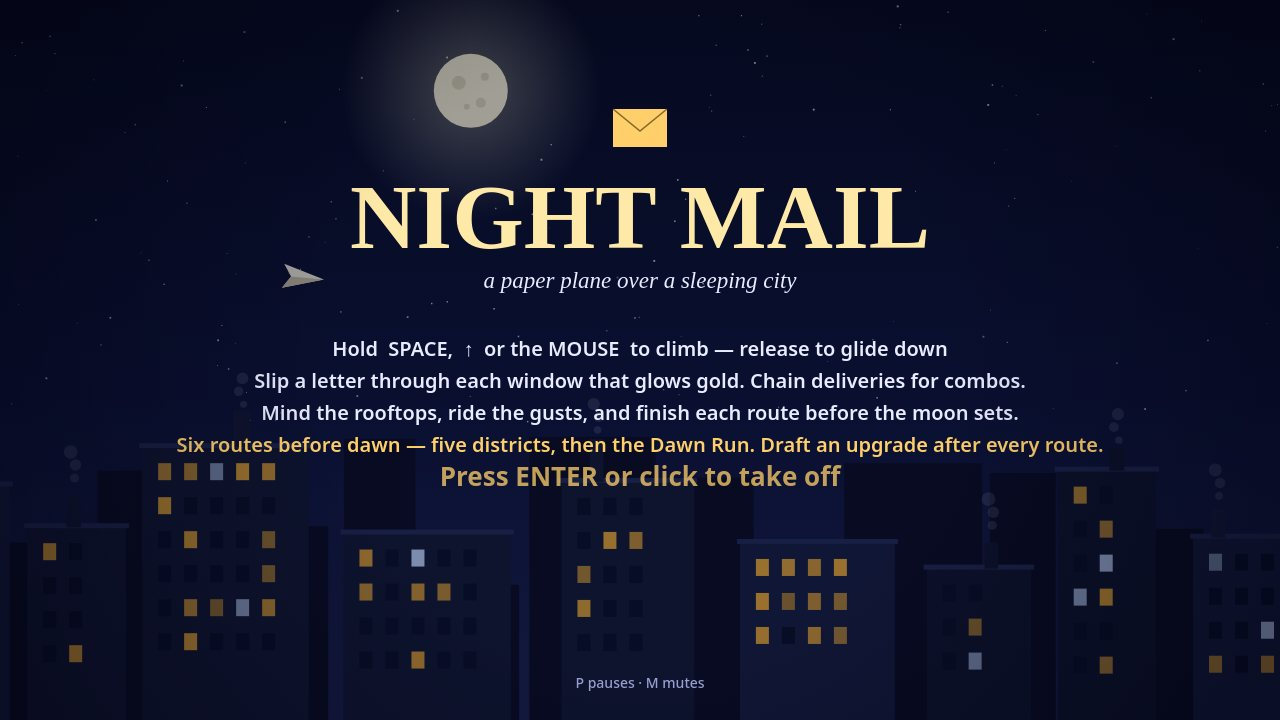
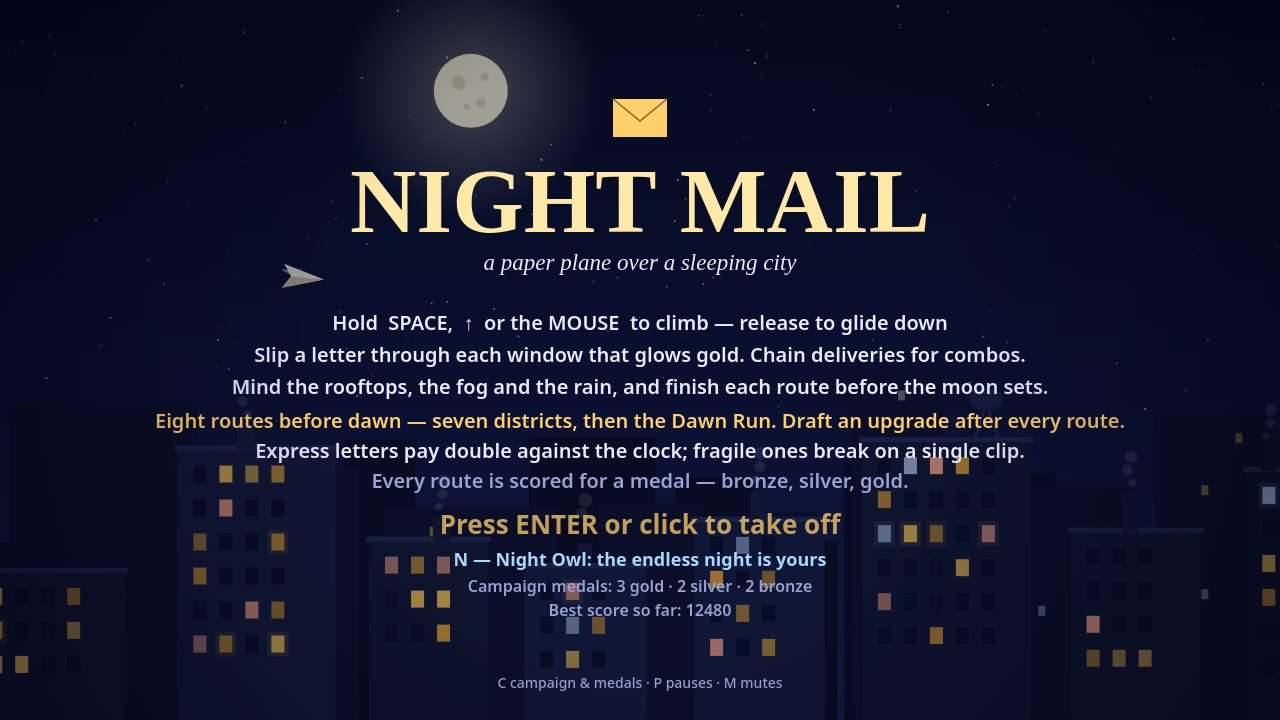
Night Mail v3 rev 2: screenshot scenes for the new systems, README refresh
- shots.js: stagedRecord/stageCampaign/stageStorm scenes — the title of a
  returning pilot (medals held, Owl open), the campaign map with its medals,
  an express dash inside a Storm Quarter rain band, and a won campaign whose
  Dawn Run medal is earned by the autopilot's real final delivery.
- screenshots: 1-title, 2-campaign, 3-storm, 4-results (1280x720 JPEGs,
  62-109 KB), replacing the v2 set.
- README: the eight-route campaign, weather, specials, medals and Night Owl.
- Gate audit: main.ts twice, byte-identical; 5/5 rows pass; dossier 545,725 B.

diff --git a/game/js/shots.js b/game/js/shots.js
@@ -1,9 +1,11 @@
-// The screenshot scenes behind ?shot=title|draft|play|over (with &seed=N). Each scene builds
-// a real world from the seed and plays it forward with the autopilot below — steer at the
-// target window, stay clear of the rooftops — so the frame is what an actual game looks
-// like, and the same seed always produces the same frame. Nothing here draws anything
-// itself. The scenes stage the campaign arc: the title, the upgrade draft after the first
-// route, a mid-combo delivery deep in the Mill District, and the results of a won campaign.
+// The screenshot scenes behind ?shot=title|campaign|storm|over (with &seed=N; draft and
+// play remain as alternates). Each scene builds a real world from the seed and plays it
+// forward with the autopilot below — steer at the target window, stay clear of the
+// rooftops — so the frame is what an actual game looks like, and the same seed always
+// produces the same frame. Nothing here draws anything itself. The scenes stage the
+// campaign arc: the title of a returning pilot (medals held, the Owl unlocked), the
+// campaign map with its medals, an express dash inside a Storm Quarter rain band, and
+// the results of a won campaign with its medal strip.
 
 import {
   BASE_SPEED, DELIVERY_REACH, DIVE, GRAVITY, LIFT, MAX_FALL, MAX_RISE, PLANE_X, STEP,
@@ -11,6 +13,7 @@ import {
 import { ROUTES } from './campaign.js';
 import { createRandom } from './random.js';
 import { createWorld, EV_DELIVER, EV_OVER } from './world.js';
+import { createCampaignRecord, medalForRoute, recordRouteResult } from './medals.js';
 
 /** The flight forces of one step, mirroring world.js exactly (upgrades included), so the
  *  autopilot's replay below predicts the real flight and not last version's. */
@@ -165,10 +168,36 @@ function playForward(world, controlFor, stopWhen, maxSeconds) {
   return false;
 }
 
+/**
+ * A returning pilot's record, built through medals.js's own folding so every medal on
+ * it is one its score truly earns: seven routes held, one campaign won, the Owl open.
+ */
+function stagedRecord() {
+  const record = createCampaignRecord(ROUTES.length);
+  const scores = [1250, 2150, 1900, 2900, 3100, 2400, 2900, 0];
+  scores.forEach((score, i) => {
+    if (score > 0) recordRouteResult(record, i, score, ROUTES[i]);
+  });
+  record.wins = 1;
+  record.owlUnlocked = true;
+  return record;
+}
+
 function stageTitle(seed) {
   const world = createWorld(createRandom(seed));
   playForward(world, () => ({ climb: false, dive: false }), null, 4.5);
-  return { world, screen: 'title', best: 0, isNewBest: false };
+  return { world, screen: 'title', best: 12480, isNewBest: false, record: stagedRecord() };
+}
+
+/**
+ * The campaign map: the same returning pilot's standing — medals across the first
+ * five districts, bronzes on the Heights and the Storm Quarter, the Dawn Run still
+ * waiting. The world behind it is the title's ambient drift.
+ */
+function stageCampaign(seed) {
+  const world = createWorld(createRandom(seed));
+  playForward(world, () => ({ climb: false, dive: false }), null, 3.2);
+  return { world, screen: 'campaign', best: 12480, isNewBest: false, record: stagedRecord() };
 }
 
 /**
@@ -190,75 +219,108 @@ function stageDraft(seed) {
 }
 
 /**
- * A mid-combo delivery in the Mill District: the campaign is staged onto the third route
- * with the Tailwind Charm already drafted, then flown until just after a combo delivery.
+ * An express dash in the Storm Quarter: the campaign is staged onto the seventh route
+ * with two upgrades aboard and three letters already down, the first target forced to
+ * an express, then flown until an express letter is on the clock with a rain band in
+ * view and the combo warm — the frame the weather and the specials share.
  */
-function stagePlay(seed) {
+function stageStorm(seed) {
   const world = createWorld(createRandom(seed));
   world.startRun();
   const state = world.state;
-  state.upgrades.push('tailwind');
-  world.jumpToRoute(2);
-  state.nightDelivered = 2;
-  state.letters = 13;
-  state.score = 2410;
-  state.bestCombo = 3;
-  let sinceDelivery = Infinity;
-  playForward(
+  state.upgrades.push('tailwind', 'sturdy');
+  world.jumpToRoute(6);
+  state.nightDelivered = 3;
+  state.letters = 37;
+  state.score = 9100;
+  state.bestCombo = 5;
+  world.forceNextSpecial('express');
+  const rainInView = (w) => w.weather.fronts.some(
+    (front) => front.kind === 'rain' && front.x - w.state.cameraX < 980 && front.x + front.w - w.state.cameraX > 240,
+  );
+  // The scene must not end: hold the route's count below its quota, so the campaign
+  // never advances out of the Storm Quarter while the frame is being found.
+  const holdRoute = (w) => {
+    if (w.state.nightDelivered >= 6) w.state.nightDelivered = 2;
+  };
+  const found = playForward(
     world,
     autopilotControl,
-    (w, events) => {
-      if (events & EV_DELIVER) sinceDelivery = 0;
-      else sinceDelivery += STEP;
-      return w.state.combo >= 2 && sinceDelivery > 0.14 && sinceDelivery < 0.6;
+    (w) => {
+      holdRoute(w);
+      const special = w.state.special;
+      return Boolean(
+        special && special.kind === 'express' && special.t > 3.2 && special.t < 7.6
+        && w.state.combo >= 2 && rainInView(w),
+      );
     },
-    45,
+    70,
   );
+  if (!found) {
+    // Any express on the clock will do: the band is never far away in this district.
+    playForward(
+      world,
+      autopilotControl,
+      (w) => {
+        holdRoute(w);
+        return Boolean(w.state.special && w.state.special.kind === 'express' && w.state.special.t > 2.5);
+      },
+      30,
+    );
+  }
   return { world, screen: 'play', best: 0, isNewBest: false };
 }
 
 /**
  * The results of a won campaign: staged onto the Dawn Run one letter short, with three
- * upgrades aboard, and the last letter delivered by the autopilot for real — the win on
- * screen is the world's own. If a seed's storm refuses, fall back to the wreck of a late
- * route, which is also a true ending.
+ * upgrades aboard and the seven flown routes' results already in the book (their
+ * medals computed by medals.js from their scores), and the last letter delivered by
+ * the autopilot for real — the win on screen is the world's own. If a seed's storm
+ * refuses, fall back to the wreck of a late route, which is also a true ending.
  */
 function stageOver(seed) {
   const world = createWorld(createRandom(seed));
   world.startRun();
   const state = world.state;
   state.upgrades.push('tailwind', 'sturdy', 'longcombo');
-  world.jumpToRoute(5);
+  const flownScores = [1250, 2150, 1900, 2900, 3100, 3500, 4300];
+  flownScores.forEach((score, i) => {
+    state.routeResults.push({ route: i, score, medal: medalForRoute(score, ROUTES[i], i) });
+  });
+  world.jumpToRoute(7);
   state.nightDelivered = state.quota - 1;
-  state.letters = 35;
-  state.score = 8640;
-  state.bestCombo = 6;
+  state.letters = 47;
+  state.score = 19300;
+  // The five Dawn Run letters already down in this fiction scored as letters do.
+  state.routeScore = 2950;
+  state.bestCombo = 7;
   const won = playForward(world, autopilotControl, (w, events) => (events & EV_OVER) !== 0, 44);
   if (!won || !state.won) {
     // The storm took this seed: show the other true ending, a crash late in the campaign.
     const late = createWorld(createRandom(seed));
     late.startRun();
     late.state.upgrades.push('tailwind');
-    late.jumpToRoute(3);
-    late.state.letters = 24;
-    late.state.score = 5120;
+    late.jumpToRoute(5);
+    late.state.letters = 30;
+    late.state.score = 9800;
     late.state.bestCombo = 5;
-    playForward(late, autopilotControl, (w) => w.state.letters >= 27, 40);
+    playForward(late, autopilotControl, (w) => w.state.letters >= 33, 40);
     playForward(late, () => ({ climb: false, dive: true }), (w, events) => (events & EV_OVER) !== 0, 20);
     playForward(late, () => ({ climb: false, dive: false }), null, 1.6);
     const lateScore = late.state.score;
-    return { world: late, screen: 'over', best: lateScore, isNewBest: lateScore > 0 };
+    return { world: late, screen: 'over', best: lateScore, isNewBest: lateScore > 0, record: stagedRecord() };
   }
   // Let the moment settle, as it does for a player reading the results.
   playForward(world, () => ({ climb: false, dive: false }), null, 1.6);
   const score = state.score;
-  return { world, screen: 'over', best: score, isNewBest: score > 0 };
+  return { world, screen: 'over', best: score, isNewBest: score > 0, record: stagedRecord() };
 }
 
-/** Stage the named scene ('title' unless it is draft, play or over) and return what to draw. */
+/** Stage the named scene ('title' unless it is campaign, storm, draft or over). */
 export function stageShot(name, seed) {
+  if (name === 'campaign') return stageCampaign(seed);
   if (name === 'draft') return stageDraft(seed);
-  if (name === 'play') return stagePlay(seed);
+  if (name === 'storm' || name === 'play') return stageStorm(seed);
   if (name === 'over') return stageOver(seed);
   return stageTitle(seed);
 }

diff --git a/README.md b/README.md
@@ -4,7 +4,7 @@
 [![rank](https://make.fun/badge/best-game-01/Nughair/night-mail/rank.svg)](https://make.fun/bounty/best-game-01/leaderboard?utm_source=github&utm_medium=readme&utm_campaign=best-game-01)
 [![reward](https://make.fun/badge/best-game-01/Nughair/night-mail/reward.svg)](https://make.fun/bounty/best-game-01?utm_source=github&utm_medium=readme&utm_campaign=best-game-01)
 
-Night Mail — pilot a paper plane over a moonlit city and slip letters through windows that glow gold. A six-route campaign: five districts of rising quotas, wind and rooftop density — Harbour Row, Old Town, the Mill District, the Heights, the Storm Quarter — then the Dawn Run, a storm flight against the sunrise. After every route, draft one of three upgrades (a bigger mailbag, a tailwind charm, reinforced wings that survive one rooftop clip, and more) and carry it for the rest of the campaign. Chain deliveries into combos, skim rooftops for near-miss bonuses, and beat the Dawn Run to win.
+Night Mail — pilot a paper plane over a moonlit city and slip letters through windows that glow gold. An eight-route campaign of rising quotas, wind and rooftop density — Harbour Row, Old Town, the fog-bound Canal District, the Mill District, the Festival Quarter under its fireworks, the Heights, the Storm Quarter — then the Dawn Run, a storm flight against the sunrise. Weather fronts drift across the later districts: fog banks that hide the windows, rain bands that shove the plane sideways. Some letters are special — express post pays double against a nine-second clock, and a fragile letter is voided by a single rooftop clip. After every route, draft one of three upgrades (a bigger mailbag, a tailwind charm, reinforced wings that survive one rooftop clip, and more) and carry it for the rest of the campaign. Every route is scored for a medal — bronze, silver, gold — kept on the campaign map; win the campaign and the Night Owl opens, an endless night that loops the districts with rising quotas. Chain deliveries into combos, skim rooftops for near-miss bonuses, and beat the Dawn Run to win.
 
 ## Run it
 
